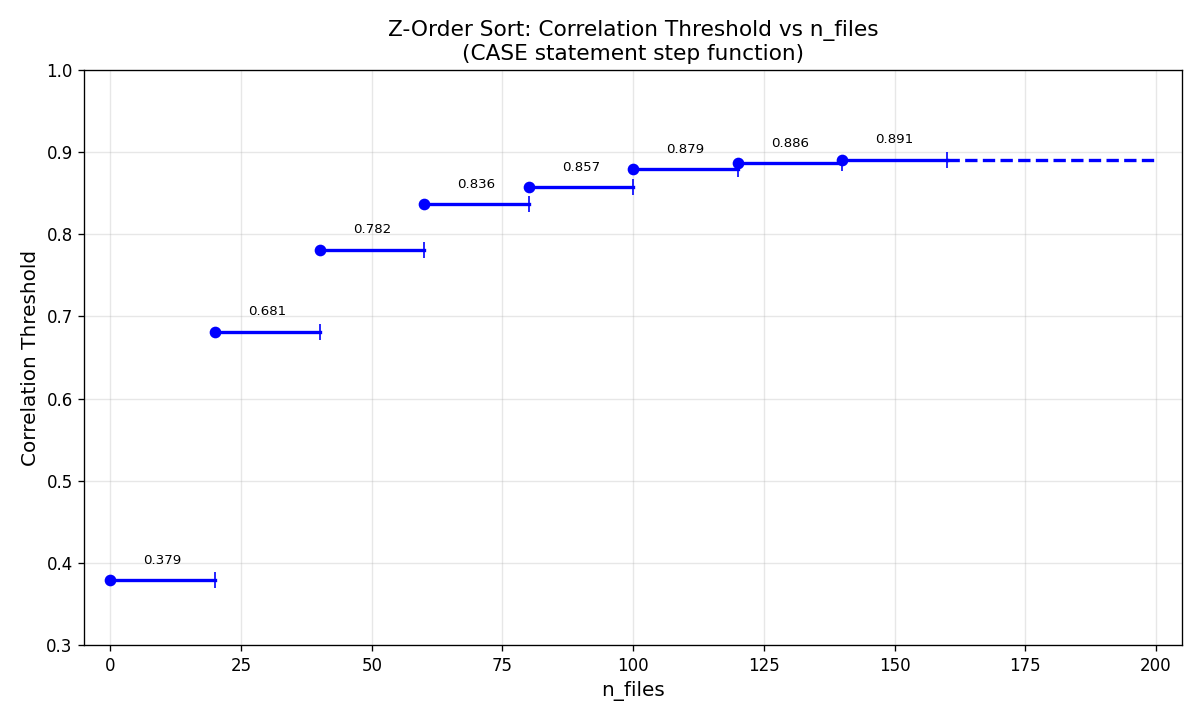
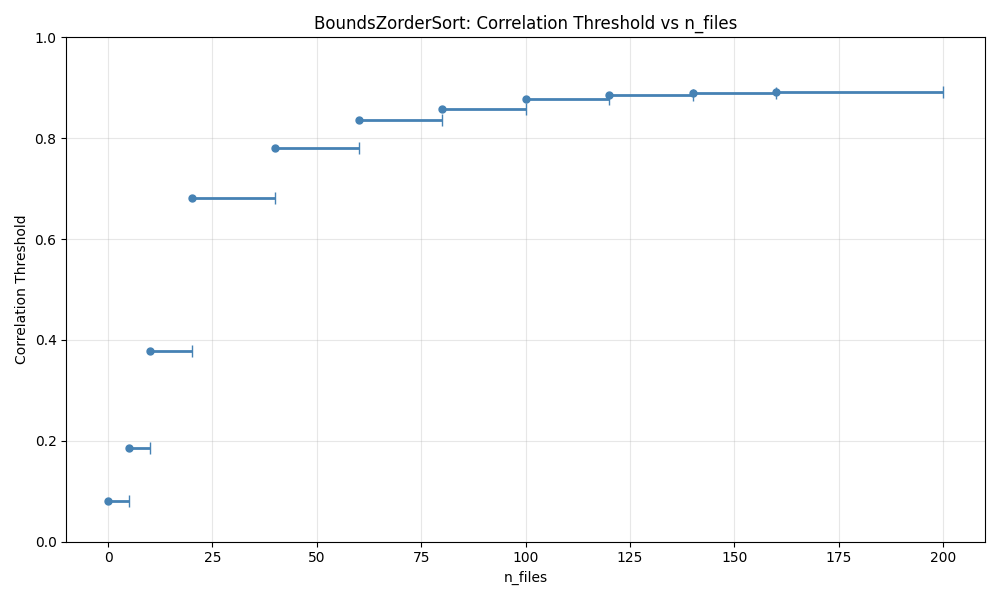
code review fix

diff --git a/ice_keeper/task/action/optimization/partition_summary.py b/ice_keeper/task/action/optimization/partition_summary.py
@@ -47,13 +47,11 @@ class PartitionSummary:
         Args:
             max_rows (int): Maximum number of rows to display in logs. Defaults to 10,000.
         """
-        spec = self.mnt_props.optimization_spec
-        if spec.is_zordered:
+        qualifier = "binpack"
+        if self.mnt_props.optimization_spec.is_zordered:
             qualifier = "zorder"
-        elif spec.is_sorted():
+        elif self.mnt_props.optimization_spec.is_sorted():
             qualifier = "sorted"
-        else:
-            qualifier = "binpack"
         rows = STL.sql(f"select * from {self.summary_before_view_name}", "Retrieve rows from partition summary").take(max_rows)
         rows_log_debug(rows, f"Partition Summary of {self.mnt_props.full_name} for {qualifier} optimized table")
 
